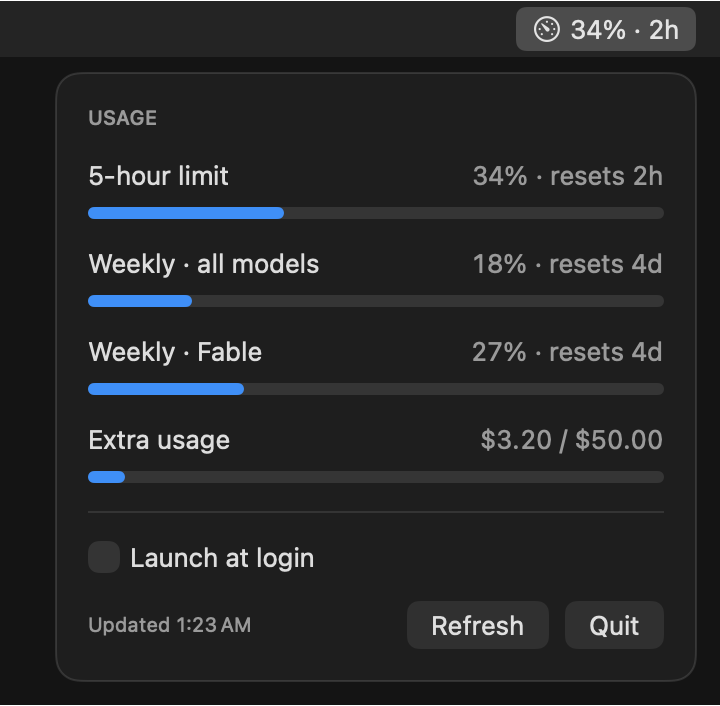
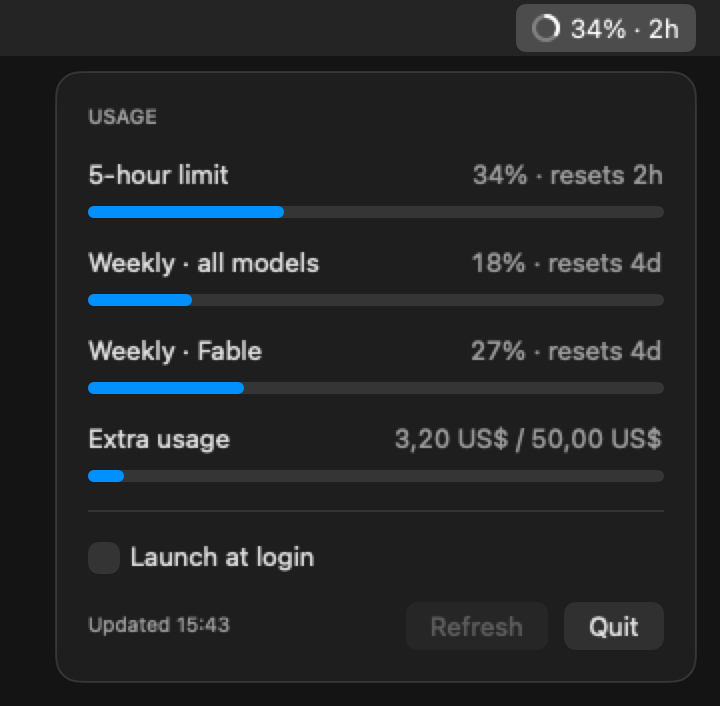
Show the 5-hour limit as a progress ring in the menu bar
- The menu bar item is now a ring plus label drawn as one template
  image, so the two are centered on each other exactly (the SF Symbol
  next to the button title sat visibly off).
- It always shows the 5-hour limit instead of the most loaded one, so
  the number no longer silently switches to a weekly limit after the
  session resets.
- The button is redrawn only when the label or ring would change.
- The popover refreshes data explicitly when it opens, and a status
  item recreation skipped while the popover is open is retried.
- tools/snapshot.swift always renders at 2x; screenshot updated.

diff --git a/main.swift b/main.swift
@@ -151,19 +151,51 @@ final class Store: ObservableObject {
         #endif
     }
 
-    /// The most loaded limit — shown in the menu bar.
-    var top: Limit? { limits.max { $0.percent < $1.percent } }
+    /// The 5-hour limit — the only one shown in the menu bar (the weekly ones live in the
+    /// popover), so the number there never silently switches to another limit.
+    var session: Limit? { limits.first { $0.kind == "session" } }
 
     var label: String {
-        guard let top else { return error == nil ? "–" : "!" }
-        if let reset = top.shortReset { return "\(Int(top.percent))% · \(reset)" }
-        return "\(Int(top.percent))%"
+        guard let session else { return error == nil ? "–" : "!" }
+        if let reset = session.shortReset { return "\(Int(session.percent))% · \(reset)" }
+        return "\(Int(session.percent))%"
     }
 
-    var symbol: String {
-        let p = top?.percent ?? 0
-        let step = p >= 90 ? 100 : p >= 60 ? 67 : p >= 40 ? 50 : p >= 15 ? 33 : 0
-        return "gauge.with.dots.needle.\(step)percent"
+    /// Ring + label, drawn as one template image so the two are centered on each other
+    /// exactly (an SF Symbol next to the button title sat visibly off).
+    var menuBarImage: NSImage {
+        let font = NSFont.menuBarFont(ofSize: 0)
+        let attrs: [NSAttributedString.Key: Any] = [.font: font, .foregroundColor: NSColor.black]
+        let label = label
+        let text = label as NSString
+        let ring: CGFloat = 14, line: CGFloat = 2, gap: CGFloat = 5, height: CGFloat = 18
+        let percent = min(session?.percent ?? 0, 100)
+        let size = NSSize(width: ring + gap + ceil(text.size(withAttributes: attrs).width), height: height)
+        let image = NSImage(size: size, flipped: false) { _ in
+            let center = NSPoint(x: ring / 2, y: height / 2)
+            let radius = (ring - line) / 2
+            let track = NSBezierPath()
+            track.appendArc(withCenter: center, radius: radius, startAngle: 0, endAngle: 360)
+            track.lineWidth = line
+            NSColor.black.withAlphaComponent(0.3).setStroke()
+            track.stroke()
+            if percent > 0 { // clockwise from 12 o'clock
+                let arc = NSBezierPath()
+                arc.appendArc(withCenter: center, radius: radius,
+                              startAngle: 90, endAngle: 90 - 360 * percent / 100, clockwise: true)
+                arc.lineWidth = line
+                arc.lineCapStyle = .round
+                NSColor.black.setStroke()
+                arc.stroke()
+            }
+            // Put the middle of the cap height (digits) on the ring's center
+            let baseline = (height - font.capHeight) / 2
+            text.draw(at: NSPoint(x: ring + gap, y: baseline + font.descender), withAttributes: attrs)
+            return true
+        }
+        image.isTemplate = true
+        image.accessibilityDescription = "Claude Usage " + label
+        return image
     }
 
     /// Whether the Refresh button would actually make a request right now.
@@ -401,10 +433,6 @@ struct ContentView: View {
         }
         .padding(16)
         .frame(width: 320)
-        // Fires every time the popover opens (onAppear may fire only once)
-        .onReceive(NotificationCenter.default.publisher(for: NSWindow.didBecomeKeyNotification)) { _ in
-            store.refresh()
-        }
     }
 }
 
@@ -429,6 +457,7 @@ final class AppDelegate: NSObject, NSApplicationDelegate {
     private var statusItem: NSStatusItem?
     private var observers: [Any] = []
     private var recreateWork: DispatchWorkItem?
+    private var drawnState: String? // what the button image currently shows
 
     func applicationDidFinishLaunching(_ notification: Notification) {
         let host = NSHostingController(rootView: ContentView(store: store))
@@ -454,10 +483,10 @@ final class AppDelegate: NSObject, NSApplicationDelegate {
     private func createStatusItem() {
         let item = NSStatusBar.system.statusItem(withLength: NSStatusItem.variableLength)
         item.autosaveName = "ClaudeUsage" // keeps the position the user dragged it to
-        item.button?.imagePosition = .imageLeading
         item.button?.target = self
         item.button?.action = #selector(togglePopover)
         statusItem = item
+        drawnState = nil
         updateButton()
     }
 
@@ -465,7 +494,8 @@ final class AppDelegate: NSObject, NSApplicationDelegate {
     private func recreateStatusItem(after delay: TimeInterval) {
         recreateWork?.cancel()
         let work = DispatchWorkItem { [weak self] in
-            guard let self, !popover.isShown else { return }
+            guard let self else { return }
+            if popover.isShown { return recreateStatusItem(after: 2) }
             if let statusItem { NSStatusBar.system.removeStatusItem(statusItem) }
             createStatusItem()
         }
@@ -473,10 +503,13 @@ final class AppDelegate: NSObject, NSApplicationDelegate {
         DispatchQueue.main.asyncAfter(deadline: .now() + delay, execute: work)
     }
 
+    /// Redraws only when the label or the ring would change: the store publishes much more
+    /// often (loading flag, the minute tick, errors).
     private func updateButton() {
-        guard let button = statusItem?.button else { return }
-        button.image = NSImage(systemSymbolName: store.symbol, accessibilityDescription: "Claude Usage")
-        button.title = " " + store.label
+        let state = "\(store.label) \(store.session?.percent ?? 0)"
+        guard state != drawnState, let button = statusItem?.button else { return }
+        drawnState = state
+        button.image = store.menuBarImage
     }
 
     @objc private func togglePopover() {
@@ -484,6 +517,7 @@ final class AppDelegate: NSObject, NSApplicationDelegate {
         if popover.isShown {
             popover.performClose(nil)
         } else {
+            store.refresh()
             NSApp.activate(ignoringOtherApps: true)
             popover.show(relativeTo: button.bounds, of: button, preferredEdge: .minY)
         }

diff --git a/tools/snapshot.swift b/tools/snapshot.swift
@@ -9,11 +9,8 @@ struct SnapshotView: View {
     var body: some View {
         VStack(alignment: .trailing, spacing: 8) {
             // Menu bar item
-            HStack(spacing: 4) {
-                Image(systemName: store.symbol)
-                Text(store.label)
-            }
-            .font(.system(size: 13))
+            Image(nsImage: store.menuBarImage)
+                .foregroundStyle(.white)
             .padding(.horizontal, 8)
             .padding(.vertical, 3)
             .background(RoundedRectangle(cornerRadius: 5).fill(Color.white.opacity(0.18)))
@@ -62,7 +59,12 @@ struct Snapshot {
         window.contentView = host
         host.layoutSubtreeIfNeeded()
 
-        let rep = host.bitmapImageRepForCachingDisplay(in: host.bounds)!
+        // Always 2x, whatever the main display's scale
+        let rep = NSBitmapImageRep(bitmapDataPlanes: nil, pixelsWide: Int(host.bounds.width * 2),
+                                   pixelsHigh: Int(host.bounds.height * 2), bitsPerSample: 8,
+                                   samplesPerPixel: 4, hasAlpha: true, isPlanar: false,
+                                   colorSpaceName: .deviceRGB, bytesPerRow: 0, bitsPerPixel: 0)!
+        rep.size = host.bounds.size
         host.cacheDisplay(in: host.bounds, to: rep)
         let out = CommandLine.arguments.first { $0.hasSuffix(".png") } ?? "screenshot.png"
         try! rep.representation(using: .png, properties: [:])!.write(to: URL(fileURLWithPath: out))

diff --git a/README.md b/README.md
@@ -4,7 +4,7 @@ A tiny macOS menu bar app that shows your Claude plan usage — the same numbers
 
 <p align="center"><img src="screenshot.png" width="360" alt="Claude Usage popover"></p>
 
-- **Menu bar:** a gauge icon and the most loaded limit, e.g. `11% · 6d` (percent · time until reset)
+- **Menu bar:** a progress ring and the 5-hour limit, e.g. `32% · 1h` (percent · time until reset)
 - **Popover:** 5-hour limit, weekly limit for all models, per-model weekly limits (e.g. Fable) and extra usage, each with a progress bar
 - **Notifications** when a limit crosses 80% and 95% (once per limit window)
 - **Launch at login** checkbox
